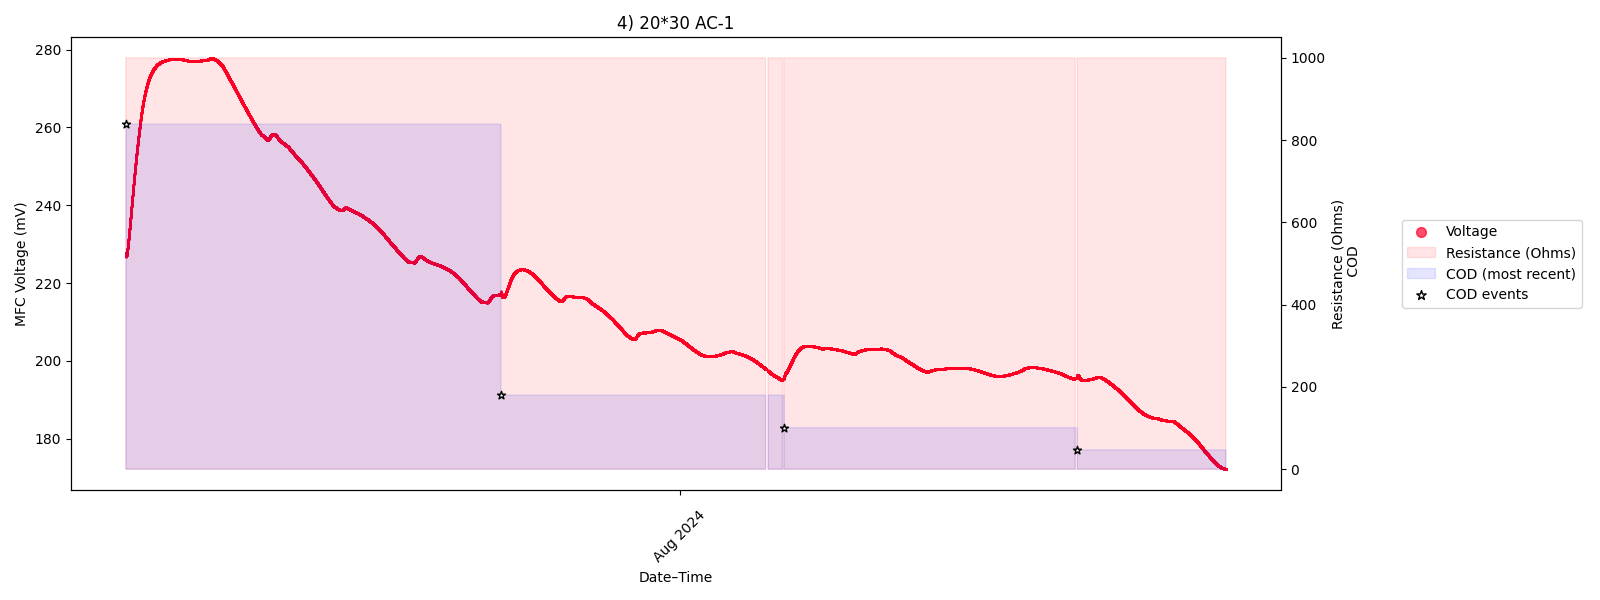
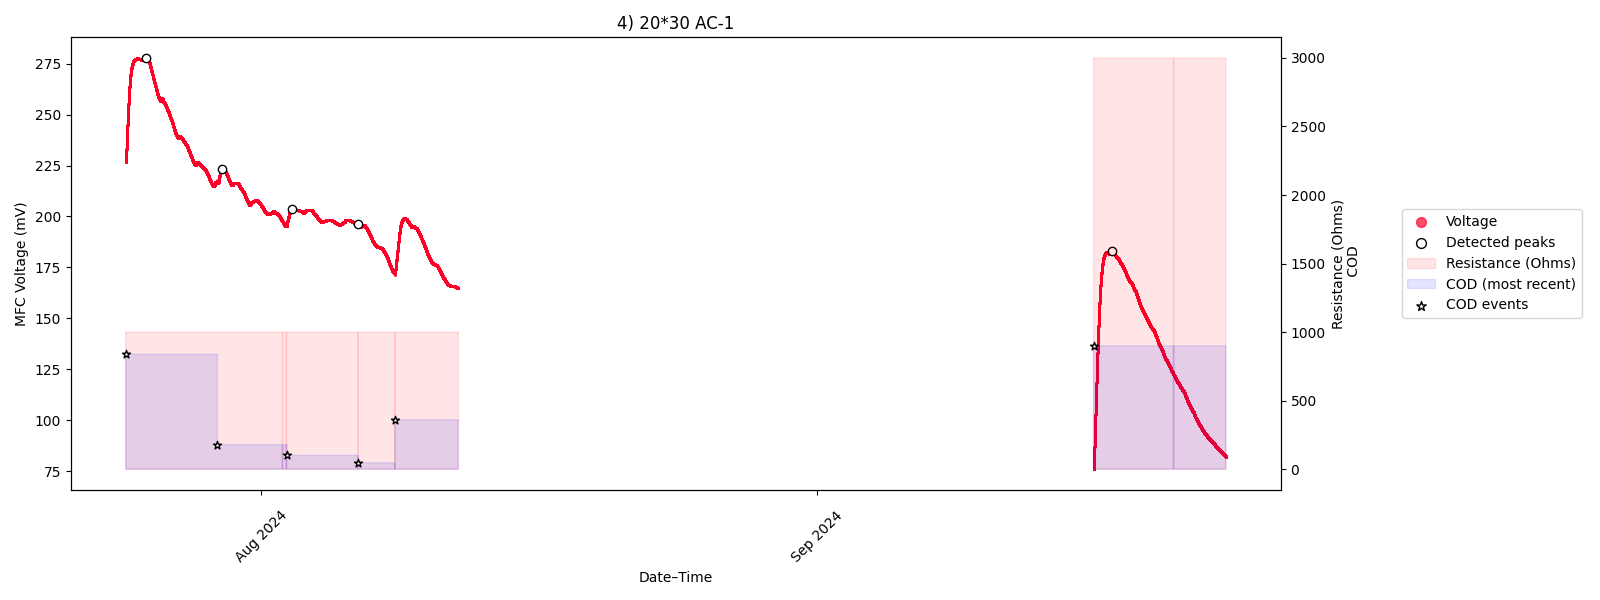
plotting and counting peaks in data

diff --git a/read_excel_data_funcs.py b/read_excel_data_funcs.py
@@ -4,6 +4,7 @@ import matplotlib.pyplot as plt
 import matplotlib.cm as cm
 import numpy as np
 import matplotlib.dates as mdates
+from scipy.signal import find_peaks
 
 
 def reformat_as_year_first(date_value):
@@ -54,7 +55,10 @@ def import_excel_data(file_path):
     print('N sheets', len(xls.sheet_names))
 
     # Sheets to import
-    for sheet in xls.sheet_names[7:10]: 
+    for sheet in xls.sheet_names[7:13]: 
+    # for sheet in xls.sheet_names[17:27]:
+    # for sheet in xls.sheet_names[27:37]: 
+    # for sheet in xls.sheet_names[37:]:  
     # for sheet in xls.sheet_names:
 
         # skip first sheet
@@ -87,7 +91,7 @@ def import_excel_data(file_path):
         date_col = df.columns[0]
         time_col = df.columns[1]
 
-        # Apply normalisation to the date column
+        # Reformat date column
         df[date_col] = df[date_col].apply(reformat_as_year_first)
 
         try:
@@ -97,7 +101,20 @@ def import_excel_data(file_path):
         except:
             print('problem:', sheet, df[date_col].astype(str) + " " + df[time_col].astype(str))
 
-        # Optional: drop the original separate date & time columns
+
+        # Drop data containing spike with unknown COD value
+        if sheet == "30sec x20_3K 2":
+            cutoff = pd.to_datetime("11/04/2025", dayfirst=True)
+            df = df[df["datetime"] < cutoff]
+
+        # Drop data containing spike with unknown COD value
+        if sheet == "biosensor-anode (30 sec) rec8":
+            cutoff = pd.to_datetime("12/08/2024", dayfirst=True)
+            df = df[df["datetime"] < cutoff]
+
+
+
+        # Drop the original separate date & time columns
         df = df.drop(columns=[date_col, time_col])
 
         # Store cleaned dataframe under its sheet name
@@ -111,7 +128,7 @@ def import_excel_data(file_path):
     return data
 
 
-def plot_data(all_data, mfc_cols, title):
+def plot_data(all_data, mfc_cols, title=None, voltage_peaks=False):
 
     n_mfcs = len(mfc_cols)
 
@@ -133,6 +150,94 @@ def plot_data(all_data, mfc_cols, title):
             color=colors[col],
             label=col
         )
+
+        if voltage_peaks==True:
+
+            samples_per_day = 2880 
+
+            # Get indices of voltage peaks
+            voltage_peaks, _ = find_peaks(all_data[col], 
+                                          distance=samples_per_day)
+
+            # Get indices of COD events
+            cod_events = all_data.index[all_data["COD_event"] == 1].to_numpy()
+            print('number of cod events ', len(cod_events))
+
+            # cod_times = all_data["datetime"].iloc[cod_events]
+            # print(cod_times)
+
+            selected_peaks = []
+            selected_indices = []
+
+            # Get window following each COD event
+            for i in range(len(cod_events)):
+                start = cod_events[i] 
+
+                if i < len(cod_events) - 1:
+                    end = cod_events[i+1]
+                    window = all_data[col].iloc[start:end]
+
+                else:
+                    # Last segment of data
+                    window = all_data[col].iloc[start:]
+
+                if len(window) > 0:
+                    # Find maximum voltage recorded in this window (voltage peak)
+                    local_max_pos = np.argmax(window.values)
+
+                    # Convert to global index
+                    max_idx = start + local_max_pos
+
+                    selected_indices.append(max_idx)
+
+            print('number of voltage peaks ', len(selected_indices))
+
+            peak_times = all_data["datetime"].iloc[selected_indices]
+            print(peak_times)
+
+
+            #     peaks_in_window = voltage_peaks[mask]
+
+            #     # end = cod_events[i+1]
+
+            #     # Select voltage peaks between this COD event and the next
+            #     peaks_in_window = voltage_peaks[mask]
+
+            #     if len(peaks_in_window) > 0: 
+
+            #         # Get voltage value of each peak
+            #         values = all_data[col].iloc[peaks_in_window].values
+
+            #         # Select peak with greatest voltage
+            #         max_peak = peaks_in_window[np.argmax(values)]
+            #         selected_peaks.append(max_peak)
+
+
+
+
+
+            # Overlay peaks as points
+            plt.scatter(all_data["datetime"].iloc[selected_indices],
+                        # all_data[col].iloc[voltage_peaks],
+                        all_data[col].iloc[selected_indices],
+                        color="black",
+                        marker="o",
+                        label="Detected peaks",
+                        zorder=3,
+                        edgecolor="black", 
+                        facecolor="white")
+
+            # # Overlay peaks as points
+            # plt.scatter(all_data["datetime"].iloc[selected_peaks],
+            #             # all_data[col].iloc[voltage_peaks],
+            #             all_data[col].iloc[selected_peaks],
+            #             color="black",
+            #             marker="o",
+            #             label="Detected peaks",
+            #             zorder=3,
+            #             edgecolor="black", 
+            #             facecolor="white")
+
 
     ax1.set_xlabel("Date–Time")
     ax1.set_ylabel("MFC Voltage (mV)")
@@ -245,7 +350,7 @@ def plot_data(all_data, mfc_cols, title):
     plt.title(title)
     plt.tight_layout()
     plt.savefig("figs/" + title + ".png")
-    # plt.show()
+    plt.show()
 
 def separate_mfc_data(all_data, mfc_cols):
     """
@@ -285,15 +390,15 @@ def separate_mfc_data(all_data, mfc_cols):
 
         # Change resistance value applied to MFC 6 from 2025-04-28 as it is different from other MFCs
         if mfc_name.startswith("6"):
-            print("MFC 6")
+            # print("MFC 6")
 
             # Check resistance value before change
-            print(df.loc[df['datetime'] >= '2025-04-28'].head())
+            # print(df.loc[df['datetime'] >= '2025-04-28'].head())
 
             df.loc[df['datetime'] >= '2025-04-28', 'Resistance'] = 1
 
             # Check resistance value after change
-            print(df.loc[df['datetime'] >= '2025-04-28'].head())
+            # print(df.loc[df['datetime'] >= '2025-04-28'].head())
 
         # Check output looks as it should
         # print('column name ', col)

diff --git a/read_excel_data.py b/read_excel_data.py
@@ -64,11 +64,11 @@ def main():
         data = all_data_separate[d]
 
         # Plot seperate data
-        plot_data(data, ["Voltage"], title=d)
+        plot_data(data, ["Voltage"], title=d, voltage_peaks=True)
 
         # Count number of COD events
         n_cod_events = data["COD_event"].sum()
-        print("number of COD events ", n_cod_events)
+        print(f"number of COD events {d} ", n_cod_events)
         
 if __name__ == "__main__":
     main()
